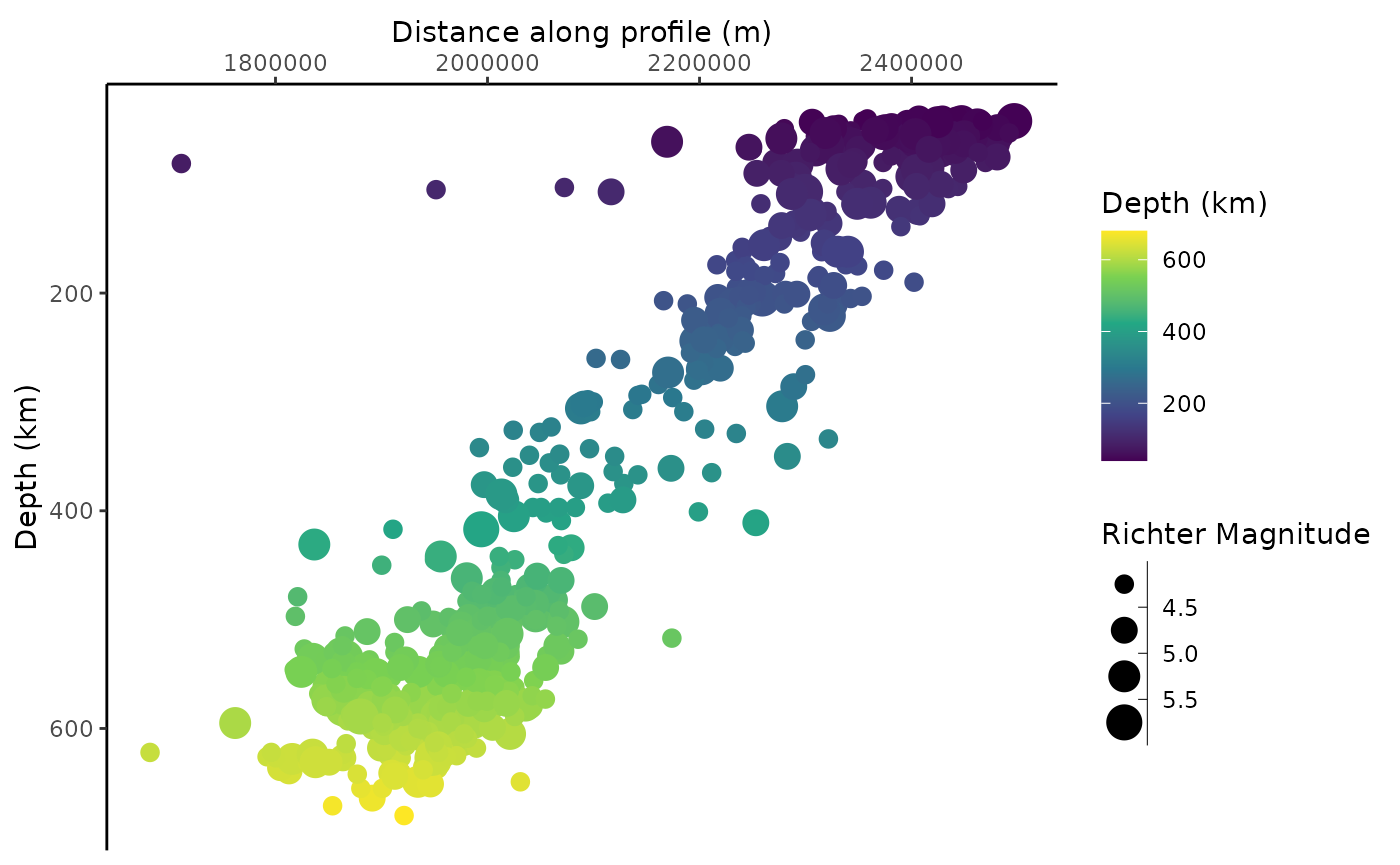
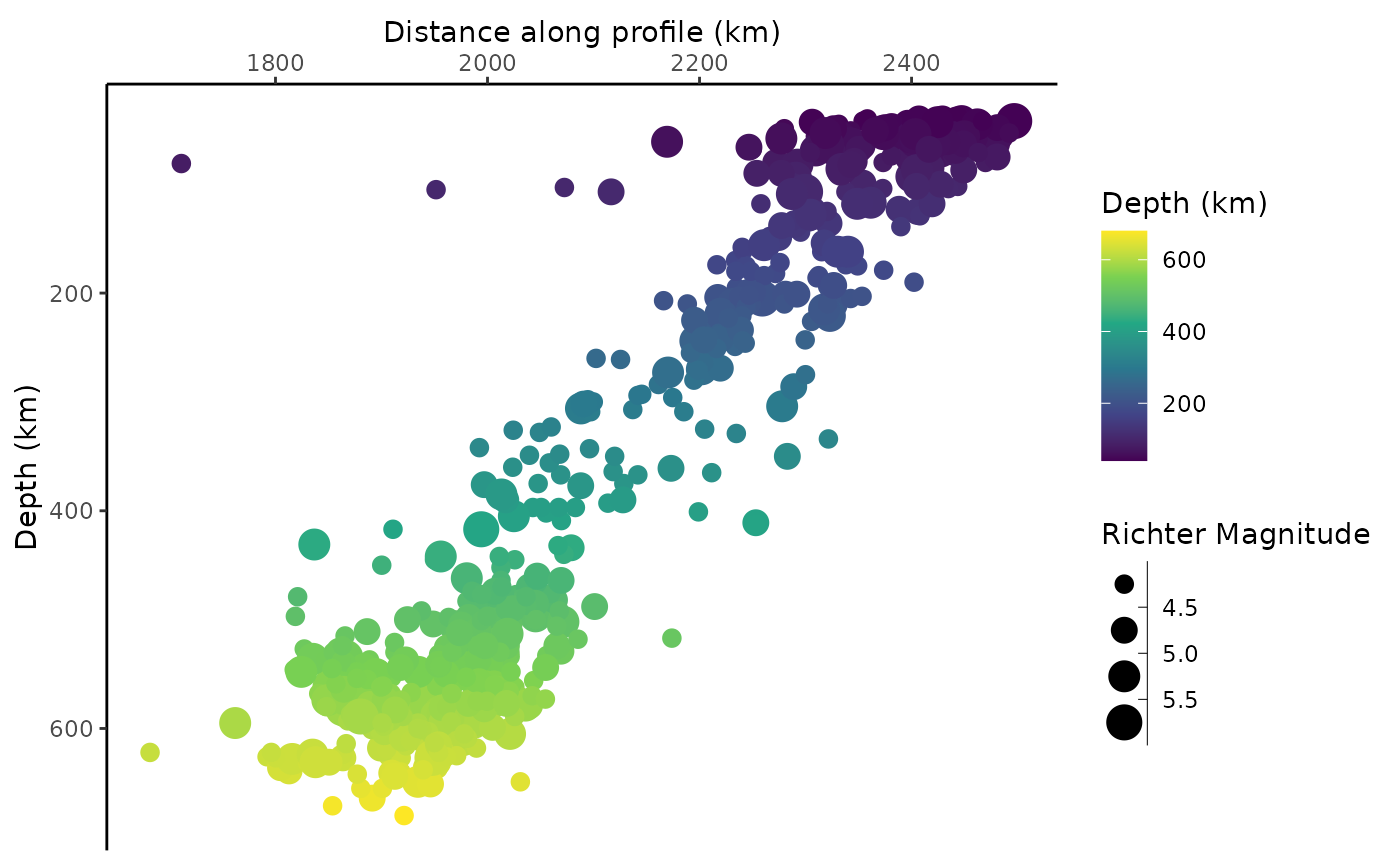
Deploying to gh-pages from @ tobiste/geoprofiler@f80be1b9bc5a8f5dad630128e11ac6049a04ee8f 🚀

Changed region(s): [[0.2764, 0.0, 0.5529, 0.0936], [0.1536, 0.0624, 0.2457, 0.0936], [0.6143, 0.0624, 0.6757, 0.0936]]

diff --git a/articles/geoprofiler.html b/articles/geoprofiler.html
@@ -185,26 +185,26 @@ avoid plotting data points that are too far away from the profile:</p>
 </h2>
 <p>Finally we plot our filtered data against the profile:</p>
 <div class="sourceCode" id="cb10"><pre class="downlit sourceCode r">
-<code class="sourceCode R"><span><span class="fu"><a href="https://ggplot2.tidyverse.org/reference/ggplot.html" class="external-link">ggplot</a></span><span class="op">(</span><span class="va">quakes_profile_filtered</span>, <span class="fu"><a href="https://ggplot2.tidyverse.org/reference/aes.html" class="external-link">aes</a></span><span class="op">(</span><span class="va">X</span>, <span class="va">depth</span>, color <span class="op">=</span> <span class="va">depth</span>, size <span class="op">=</span> <span class="va">mag</span><span class="op">)</span><span class="op">)</span> <span class="op">+</span></span>
+<code class="sourceCode R"><span><span class="fu"><a href="https://ggplot2.tidyverse.org/reference/ggplot.html" class="external-link">ggplot</a></span><span class="op">(</span><span class="va">quakes_profile_filtered</span>, <span class="fu"><a href="https://ggplot2.tidyverse.org/reference/aes.html" class="external-link">aes</a></span><span class="op">(</span><span class="va">X</span><span class="op">/</span><span class="fl">1000</span>, <span class="va">depth</span>, color <span class="op">=</span> <span class="va">depth</span>, size <span class="op">=</span> <span class="va">mag</span><span class="op">)</span><span class="op">)</span> <span class="op">+</span></span>
 <span>  <span class="fu"><a href="https://ggplot2.tidyverse.org/reference/geom_point.html" class="external-link">geom_point</a></span><span class="op">(</span><span class="op">)</span> <span class="op">+</span></span>
 <span>  <span class="fu"><a href="https://ggplot2.tidyverse.org/reference/scale_size.html" class="external-link">scale_size_binned</a></span><span class="op">(</span><span class="st">"Richter Magnitude"</span><span class="op">)</span> <span class="op">+</span></span>
 <span>  <span class="fu"><a href="https://ggplot2.tidyverse.org/reference/scale_continuous.html" class="external-link">scale_y_reverse</a></span><span class="op">(</span><span class="op">)</span> <span class="op">+</span></span>
 <span>  <span class="fu"><a href="https://ggplot2.tidyverse.org/reference/scale_continuous.html" class="external-link">scale_x_continuous</a></span><span class="op">(</span>guide <span class="op">=</span> <span class="fu"><a href="https://ggplot2.tidyverse.org/reference/guide_axis.html" class="external-link">guide_axis</a></span><span class="op">(</span>position <span class="op">=</span> <span class="st">"top"</span><span class="op">)</span><span class="op">)</span> <span class="op">+</span></span>
-<span>  <span class="fu"><a href="https://ggplot2.tidyverse.org/reference/labs.html" class="external-link">labs</a></span><span class="op">(</span>x <span class="op">=</span> <span class="st">"Distance along profile (m)"</span>, y <span class="op">=</span> <span class="st">"Depth (km)"</span>, color <span class="op">=</span> <span class="st">"Depth (km)"</span><span class="op">)</span></span></code></pre></div>
+<span>  <span class="fu"><a href="https://ggplot2.tidyverse.org/reference/labs.html" class="external-link">labs</a></span><span class="op">(</span>x <span class="op">=</span> <span class="st">"Distance along profile (km)"</span>, y <span class="op">=</span> <span class="st">"Depth (km)"</span>, color <span class="op">=</span> <span class="st">"Depth (km)"</span><span class="op">)</span></span></code></pre></div>
 <p><img src="geoprofiler_files/figure-html/profile_plot1-1.png" width="700"></p>
 <p>One way to show the distance from the profile in the same plot is by
 controlling the size (and/or the opacity) of the points. Here I am using
 the unfiltered data, and show the closest points much larger than the
 more distant points. This gives a somewhat 3-dimensional look to it:</p>
 <div class="sourceCode" id="cb11"><pre class="downlit sourceCode r">
-<code class="sourceCode R"><span><span class="fu"><a href="https://ggplot2.tidyverse.org/reference/ggplot.html" class="external-link">ggplot</a></span><span class="op">(</span><span class="va">quakes_profile</span>, <span class="fu"><a href="https://ggplot2.tidyverse.org/reference/aes.html" class="external-link">aes</a></span><span class="op">(</span><span class="va">X</span>, <span class="va">depth</span>, color <span class="op">=</span> <span class="va">mag</span>, size <span class="op">=</span> <span class="fu"><a href="https://rdrr.io/r/base/MathFun.html" class="external-link">abs</a></span><span class="op">(</span><span class="va">Y</span><span class="op">)</span>, alpha <span class="op">=</span> <span class="fu"><a href="https://rdrr.io/r/base/MathFun.html" class="external-link">abs</a></span><span class="op">(</span><span class="va">Y</span><span class="op">)</span><span class="op">)</span><span class="op">)</span> <span class="op">+</span></span>
+<code class="sourceCode R"><span><span class="fu"><a href="https://ggplot2.tidyverse.org/reference/ggplot.html" class="external-link">ggplot</a></span><span class="op">(</span><span class="va">quakes_profile</span>, <span class="fu"><a href="https://ggplot2.tidyverse.org/reference/aes.html" class="external-link">aes</a></span><span class="op">(</span><span class="va">X</span><span class="op">/</span><span class="fl">1000</span>, <span class="va">depth</span>, color <span class="op">=</span> <span class="va">mag</span>, size <span class="op">=</span> <span class="fu"><a href="https://rdrr.io/r/base/MathFun.html" class="external-link">abs</a></span><span class="op">(</span><span class="va">Y</span><span class="op">)</span><span class="op">/</span><span class="fl">1000</span>, alpha <span class="op">=</span> <span class="fu"><a href="https://rdrr.io/r/base/MathFun.html" class="external-link">abs</a></span><span class="op">(</span><span class="va">Y</span><span class="op">)</span><span class="op">/</span><span class="fl">1000</span><span class="op">)</span><span class="op">)</span> <span class="op">+</span></span>
 <span>  <span class="fu"><a href="https://ggplot2.tidyverse.org/reference/geom_point.html" class="external-link">geom_point</a></span><span class="op">(</span><span class="op">)</span> <span class="op">+</span></span>
 <span>  <span class="fu"><a href="https://ggplot2.tidyverse.org/reference/scale_viridis.html" class="external-link">scale_color_viridis_c</a></span><span class="op">(</span><span class="st">"Richter Magnitude"</span>, option <span class="op">=</span> <span class="st">"A"</span><span class="op">)</span> <span class="op">+</span></span>
-<span>  <span class="fu"><a href="https://ggplot2.tidyverse.org/reference/scale_size.html" class="external-link">scale_size_continuous</a></span><span class="op">(</span><span class="st">"Distance from profile (degree)"</span>, range <span class="op">=</span> <span class="fu"><a href="https://rdrr.io/r/base/c.html" class="external-link">c</a></span><span class="op">(</span><span class="fl">3</span>, <span class="fl">.1</span><span class="op">)</span><span class="op">)</span> <span class="op">+</span></span>
-<span>  <span class="fu"><a href="https://ggplot2.tidyverse.org/reference/scale_alpha.html" class="external-link">scale_alpha_continuous</a></span><span class="op">(</span><span class="st">"Distance from profile (degree)"</span>, range <span class="op">=</span> <span class="fu"><a href="https://rdrr.io/r/base/c.html" class="external-link">c</a></span><span class="op">(</span><span class="fl">1</span>, <span class="fl">.1</span><span class="op">)</span><span class="op">)</span> <span class="op">+</span></span>
+<span>  <span class="fu"><a href="https://ggplot2.tidyverse.org/reference/scale_size.html" class="external-link">scale_size_continuous</a></span><span class="op">(</span><span class="st">"Distance from profile (km)"</span>, range <span class="op">=</span> <span class="fu"><a href="https://rdrr.io/r/base/c.html" class="external-link">c</a></span><span class="op">(</span><span class="fl">3</span>, <span class="fl">.1</span><span class="op">)</span><span class="op">)</span> <span class="op">+</span></span>
+<span>  <span class="fu"><a href="https://ggplot2.tidyverse.org/reference/scale_alpha.html" class="external-link">scale_alpha_continuous</a></span><span class="op">(</span><span class="st">"Distance from profile (km)"</span>, range <span class="op">=</span> <span class="fu"><a href="https://rdrr.io/r/base/c.html" class="external-link">c</a></span><span class="op">(</span><span class="fl">1</span>, <span class="fl">.1</span><span class="op">)</span><span class="op">)</span> <span class="op">+</span></span>
 <span>  <span class="fu"><a href="https://ggplot2.tidyverse.org/reference/scale_continuous.html" class="external-link">scale_y_reverse</a></span><span class="op">(</span><span class="op">)</span> <span class="op">+</span></span>
 <span>  <span class="fu"><a href="https://ggplot2.tidyverse.org/reference/scale_continuous.html" class="external-link">scale_x_continuous</a></span><span class="op">(</span>guide <span class="op">=</span> <span class="fu"><a href="https://ggplot2.tidyverse.org/reference/guide_axis.html" class="external-link">guide_axis</a></span><span class="op">(</span>position <span class="op">=</span> <span class="st">"top"</span><span class="op">)</span><span class="op">)</span> <span class="op">+</span></span>
-<span>  <span class="fu"><a href="https://ggplot2.tidyverse.org/reference/labs.html" class="external-link">labs</a></span><span class="op">(</span>x <span class="op">=</span> <span class="st">"Distance along profile (m)"</span>, y <span class="op">=</span> <span class="st">"Depth (km)"</span><span class="op">)</span></span></code></pre></div>
+<span>  <span class="fu"><a href="https://ggplot2.tidyverse.org/reference/labs.html" class="external-link">labs</a></span><span class="op">(</span>x <span class="op">=</span> <span class="st">"Distance along profile (km)"</span>, y <span class="op">=</span> <span class="st">"Depth (km)"</span><span class="op">)</span></span></code></pre></div>
 <p><img src="geoprofiler_files/figure-html/profile_plot2-1.png" width="700"></p>
 </div>
   </main><aside class="col-md-3"><nav id="toc" aria-label="Table of contents"><h2>On this page</h2>

diff --git a/reference/profile_points.html b/reference/profile_points.html
@@ -89,8 +89,10 @@ when geographical coordinate reference frame.</p>
     <h2 id="ref-examples">Examples<a class="anchor" aria-label="anchor" href="#ref-examples"></a></h2>
     <div class="sourceCode"><pre class="sourceCode r"><code><span class="r-in"><span><span class="va">p1</span> <span class="op">&lt;-</span> <span class="fu"><a href="https://rdrr.io/r/base/data.frame.html" class="external-link">data.frame</a></span><span class="op">(</span>lon <span class="op">=</span> <span class="op">-</span><span class="fl">90.8</span>, lat <span class="op">=</span> <span class="fl">48.6</span><span class="op">)</span> <span class="op">|&gt;</span></span></span>
 <span class="r-in"><span>  <span class="fu">sf</span><span class="fu">::</span><span class="fu"><a href="https://r-spatial.github.io/sf/reference/st_as_sf.html" class="external-link">st_as_sf</a></span><span class="op">(</span>coords <span class="op">=</span> <span class="fu"><a href="https://rdrr.io/r/base/c.html" class="external-link">c</a></span><span class="op">(</span><span class="st">"lon"</span>, <span class="st">"lat"</span><span class="op">)</span>, crs <span class="op">=</span> <span class="st">"WGS84"</span><span class="op">)</span></span></span>
-<span class="r-in"><span><span class="fu">profile_points</span><span class="op">(</span><span class="va">p1</span>, profile.azimuth <span class="op">=</span> <span class="fl">135</span>, profile.length <span class="op">=</span> <span class="fu">units</span><span class="fu">::</span><span class="fu"><a href="https://r-quantities.github.io/units/reference/units.html" class="external-link">set_units</a></span><span class="op">(</span><span class="fl">10</span>, <span class="st">"km"</span><span class="op">)</span>,</span></span>
-<span class="r-in"><span>  crs <span class="op">=</span> <span class="fu">sf</span><span class="fu">::</span><span class="fu"><a href="https://r-spatial.github.io/sf/reference/st_crs.html" class="external-link">st_crs</a></span><span class="op">(</span><span class="st">"EPSG:26915"</span><span class="op">)</span><span class="op">)</span></span></span>
+<span class="r-in"><span><span class="fu">profile_points</span><span class="op">(</span><span class="va">p1</span>,</span></span>
+<span class="r-in"><span>  profile.azimuth <span class="op">=</span> <span class="fl">135</span>, profile.length <span class="op">=</span> <span class="fu">units</span><span class="fu">::</span><span class="fu"><a href="https://r-quantities.github.io/units/reference/units.html" class="external-link">set_units</a></span><span class="op">(</span><span class="fl">10</span>, <span class="st">"km"</span><span class="op">)</span>,</span></span>
+<span class="r-in"><span>  crs <span class="op">=</span> <span class="fu">sf</span><span class="fu">::</span><span class="fu"><a href="https://r-spatial.github.io/sf/reference/st_crs.html" class="external-link">st_crs</a></span><span class="op">(</span><span class="st">"EPSG:26915"</span><span class="op">)</span></span></span>
+<span class="r-in"><span><span class="op">)</span></span></span>
 <span class="r-out co"><span class="r-pr">#&gt;</span> Simple feature collection with 2 features and 0 fields</span>
 <span class="r-out co"><span class="r-pr">#&gt;</span> Geometry type: POINT</span>
 <span class="r-out co"><span class="r-pr">#&gt;</span> Dimension:     XY</span>

diff --git a/reference/profile_length.html b/reference/profile_length.html
@@ -62,8 +62,10 @@
     <h2 id="ref-examples">Examples<a class="anchor" aria-label="anchor" href="#ref-examples"></a></h2>
     <div class="sourceCode"><pre class="sourceCode r"><code><span class="r-in"><span><span class="va">p1</span> <span class="op">&lt;-</span> <span class="fu"><a href="https://rdrr.io/r/base/data.frame.html" class="external-link">data.frame</a></span><span class="op">(</span>lon <span class="op">=</span> <span class="op">-</span><span class="fl">90.8</span>, lat <span class="op">=</span> <span class="fl">48.6</span><span class="op">)</span> <span class="op">|&gt;</span></span></span>
 <span class="r-in"><span>  <span class="fu">sf</span><span class="fu">::</span><span class="fu"><a href="https://r-spatial.github.io/sf/reference/st_as_sf.html" class="external-link">st_as_sf</a></span><span class="op">(</span>coords <span class="op">=</span> <span class="fu"><a href="https://rdrr.io/r/base/c.html" class="external-link">c</a></span><span class="op">(</span><span class="st">"lon"</span>, <span class="st">"lat"</span><span class="op">)</span>, crs <span class="op">=</span> <span class="st">"WGS84"</span><span class="op">)</span></span></span>
-<span class="r-in"><span><span class="fu"><a href="profile_points.html">profile_points</a></span><span class="op">(</span><span class="va">p1</span>, profile.azimuth <span class="op">=</span> <span class="fl">135</span>, profile.length <span class="op">=</span> <span class="fl">10000</span>,</span></span>
-<span class="r-in"><span>  crs <span class="op">=</span> <span class="fu">sf</span><span class="fu">::</span><span class="fu"><a href="https://r-spatial.github.io/sf/reference/st_crs.html" class="external-link">st_crs</a></span><span class="op">(</span><span class="st">"EPSG:26915"</span><span class="op">)</span><span class="op">)</span> <span class="op">|&gt;</span></span></span>
+<span class="r-in"><span><span class="fu"><a href="profile_points.html">profile_points</a></span><span class="op">(</span><span class="va">p1</span>,</span></span>
+<span class="r-in"><span>  profile.azimuth <span class="op">=</span> <span class="fl">135</span>, profile.length <span class="op">=</span> <span class="fl">10000</span>,</span></span>
+<span class="r-in"><span>  crs <span class="op">=</span> <span class="fu">sf</span><span class="fu">::</span><span class="fu"><a href="https://r-spatial.github.io/sf/reference/st_crs.html" class="external-link">st_crs</a></span><span class="op">(</span><span class="st">"EPSG:26915"</span><span class="op">)</span></span></span>
+<span class="r-in"><span><span class="op">)</span> <span class="op">|&gt;</span></span></span>
 <span class="r-in"><span>  <span class="fu"><a href="profile_line.html">profile_line</a></span><span class="op">(</span><span class="op">)</span> <span class="op">|&gt;</span></span></span>
 <span class="r-in"><span>  <span class="fu">profile_length</span><span class="op">(</span><span class="op">)</span></span></span>
 <span class="r-wrn co"><span class="r-pr">#&gt;</span> <span class="warning">Warning: </span>Unit of profile.length not specified. Assuming unit is in meters.</span>

diff --git a/reference/profile_line.html b/reference/profile_line.html
@@ -58,8 +58,10 @@
     <h2 id="ref-examples">Examples<a class="anchor" aria-label="anchor" href="#ref-examples"></a></h2>
     <div class="sourceCode"><pre class="sourceCode r"><code><span class="r-in"><span><span class="va">p1</span> <span class="op">&lt;-</span> <span class="fu"><a href="https://rdrr.io/r/base/data.frame.html" class="external-link">data.frame</a></span><span class="op">(</span>lon <span class="op">=</span> <span class="op">-</span><span class="fl">90.8</span>, lat <span class="op">=</span> <span class="fl">48.6</span><span class="op">)</span> <span class="op">|&gt;</span></span></span>
 <span class="r-in"><span>  <span class="fu">sf</span><span class="fu">::</span><span class="fu"><a href="https://r-spatial.github.io/sf/reference/st_as_sf.html" class="external-link">st_as_sf</a></span><span class="op">(</span>coords <span class="op">=</span> <span class="fu"><a href="https://rdrr.io/r/base/c.html" class="external-link">c</a></span><span class="op">(</span><span class="st">"lon"</span>, <span class="st">"lat"</span><span class="op">)</span>, crs <span class="op">=</span> <span class="st">"WGS84"</span><span class="op">)</span></span></span>
-<span class="r-in"><span><span class="fu"><a href="profile_points.html">profile_points</a></span><span class="op">(</span><span class="va">p1</span>, profile.azimuth <span class="op">=</span> <span class="fl">135</span>, profile.length <span class="op">=</span> <span class="fl">10000</span>,</span></span>
-<span class="r-in"><span>  crs <span class="op">=</span> <span class="fu">sf</span><span class="fu">::</span><span class="fu"><a href="https://r-spatial.github.io/sf/reference/st_crs.html" class="external-link">st_crs</a></span><span class="op">(</span><span class="st">"EPSG:26915"</span><span class="op">)</span><span class="op">)</span> <span class="op">|&gt;</span></span></span>
+<span class="r-in"><span><span class="fu"><a href="profile_points.html">profile_points</a></span><span class="op">(</span><span class="va">p1</span>,</span></span>
+<span class="r-in"><span>  profile.azimuth <span class="op">=</span> <span class="fl">135</span>, profile.length <span class="op">=</span> <span class="fl">10000</span>,</span></span>
+<span class="r-in"><span>  crs <span class="op">=</span> <span class="fu">sf</span><span class="fu">::</span><span class="fu"><a href="https://r-spatial.github.io/sf/reference/st_crs.html" class="external-link">st_crs</a></span><span class="op">(</span><span class="st">"EPSG:26915"</span><span class="op">)</span></span></span>
+<span class="r-in"><span><span class="op">)</span> <span class="op">|&gt;</span></span></span>
 <span class="r-in"><span>  <span class="fu">profile_line</span><span class="op">(</span><span class="op">)</span></span></span>
 <span class="r-wrn co"><span class="r-pr">#&gt;</span> <span class="warning">Warning: </span>Unit of profile.length not specified. Assuming unit is in meters.</span>
 <span class="r-out co"><span class="r-pr">#&gt;</span> Geometry set for 1 feature </span>

diff --git a/reference/profile_azimuth.html b/reference/profile_azimuth.html
@@ -59,8 +59,10 @@
     <div class="sourceCode"><pre class="sourceCode r"><code><span class="r-in"><span><span class="va">p1</span> <span class="op">&lt;-</span> <span class="fu"><a href="https://rdrr.io/r/base/data.frame.html" class="external-link">data.frame</a></span><span class="op">(</span>lon <span class="op">=</span> <span class="op">-</span><span class="fl">90.8</span>, lat <span class="op">=</span> <span class="fl">48.6</span><span class="op">)</span> <span class="op">|&gt;</span></span></span>
 <span class="r-in"><span>  <span class="fu">sf</span><span class="fu">::</span><span class="fu"><a href="https://r-spatial.github.io/sf/reference/st_as_sf.html" class="external-link">st_as_sf</a></span><span class="op">(</span>coords <span class="op">=</span> <span class="fu"><a href="https://rdrr.io/r/base/c.html" class="external-link">c</a></span><span class="op">(</span><span class="st">"lon"</span>, <span class="st">"lat"</span><span class="op">)</span>, crs <span class="op">=</span> <span class="st">"WGS84"</span><span class="op">)</span></span></span>
 <span class="r-in"><span></span></span>
-<span class="r-in"><span><span class="fu"><a href="profile_points.html">profile_points</a></span><span class="op">(</span><span class="va">p1</span>, profile.azimuth <span class="op">=</span> <span class="fl">135</span>, profile.length <span class="op">=</span> <span class="fl">10000</span>,</span></span>
-<span class="r-in"><span>  crs <span class="op">=</span> <span class="fu">sf</span><span class="fu">::</span><span class="fu"><a href="https://r-spatial.github.io/sf/reference/st_crs.html" class="external-link">st_crs</a></span><span class="op">(</span><span class="st">"EPSG:26915"</span><span class="op">)</span><span class="op">)</span> <span class="op">|&gt;</span></span></span>
+<span class="r-in"><span><span class="fu"><a href="profile_points.html">profile_points</a></span><span class="op">(</span><span class="va">p1</span>,</span></span>
+<span class="r-in"><span>  profile.azimuth <span class="op">=</span> <span class="fl">135</span>, profile.length <span class="op">=</span> <span class="fl">10000</span>,</span></span>
+<span class="r-in"><span>  crs <span class="op">=</span> <span class="fu">sf</span><span class="fu">::</span><span class="fu"><a href="https://r-spatial.github.io/sf/reference/st_crs.html" class="external-link">st_crs</a></span><span class="op">(</span><span class="st">"EPSG:26915"</span><span class="op">)</span></span></span>
+<span class="r-in"><span><span class="op">)</span> <span class="op">|&gt;</span></span></span>
 <span class="r-in"><span>  <span class="fu">profile_azimuth</span><span class="op">(</span><span class="op">)</span></span></span>
 <span class="r-wrn co"><span class="r-pr">#&gt;</span> <span class="warning">Warning: </span>Unit of profile.length not specified. Assuming unit is in meters.</span>
 <span class="r-out co"><span class="r-pr">#&gt;</span> 136.7341 [°]</span>

diff --git a/index.html b/index.html
@@ -65,14 +65,6 @@
 <p>This is a basic example which shows you how to create a profile</p>
 <div class="sourceCode" id="cb2"><pre class="downlit sourceCode r">
 <code class="sourceCode R"><span><span class="kw"><a href="https://rdrr.io/r/base/library.html" class="external-link">library</a></span><span class="op">(</span><span class="va"><a href="https://tobiste.github.io/geoprofiler/">geoprofiler</a></span><span class="op">)</span></span>
-<span><span class="co">#&gt; The legacy packages maptools, rgdal, and rgeos, underpinning the sp package,</span></span>
-<span><span class="co">#&gt; which was just loaded, will retire in October 2023.</span></span>
-<span><span class="co">#&gt; Please refer to R-spatial evolution reports for details, especially</span></span>
-<span><span class="co">#&gt; https://r-spatial.org/r/2023/05/15/evolution4.html.</span></span>
-<span><span class="co">#&gt; It may be desirable to make the sf package available;</span></span>
-<span><span class="co">#&gt; package maintainers should consider adding sf to Suggests:.</span></span>
-<span><span class="co">#&gt; The sp package is now running under evolution status 2</span></span>
-<span><span class="co">#&gt;      (status 2 uses the sf package in place of rgdal)</span></span>
 <span><span class="kw"><a href="https://rdrr.io/r/base/library.html" class="external-link">library</a></span><span class="op">(</span><span class="va"><a href="https://ggplot2.tidyverse.org" class="external-link">ggplot2</a></span><span class="op">)</span></span>
 <span><span class="co">#&gt; Warning: package 'ggplot2' was built under R version 4.3.3</span></span></code></pre></div>
 <p>Import example data and transfer them into a <code>sf</code> object:</p>
